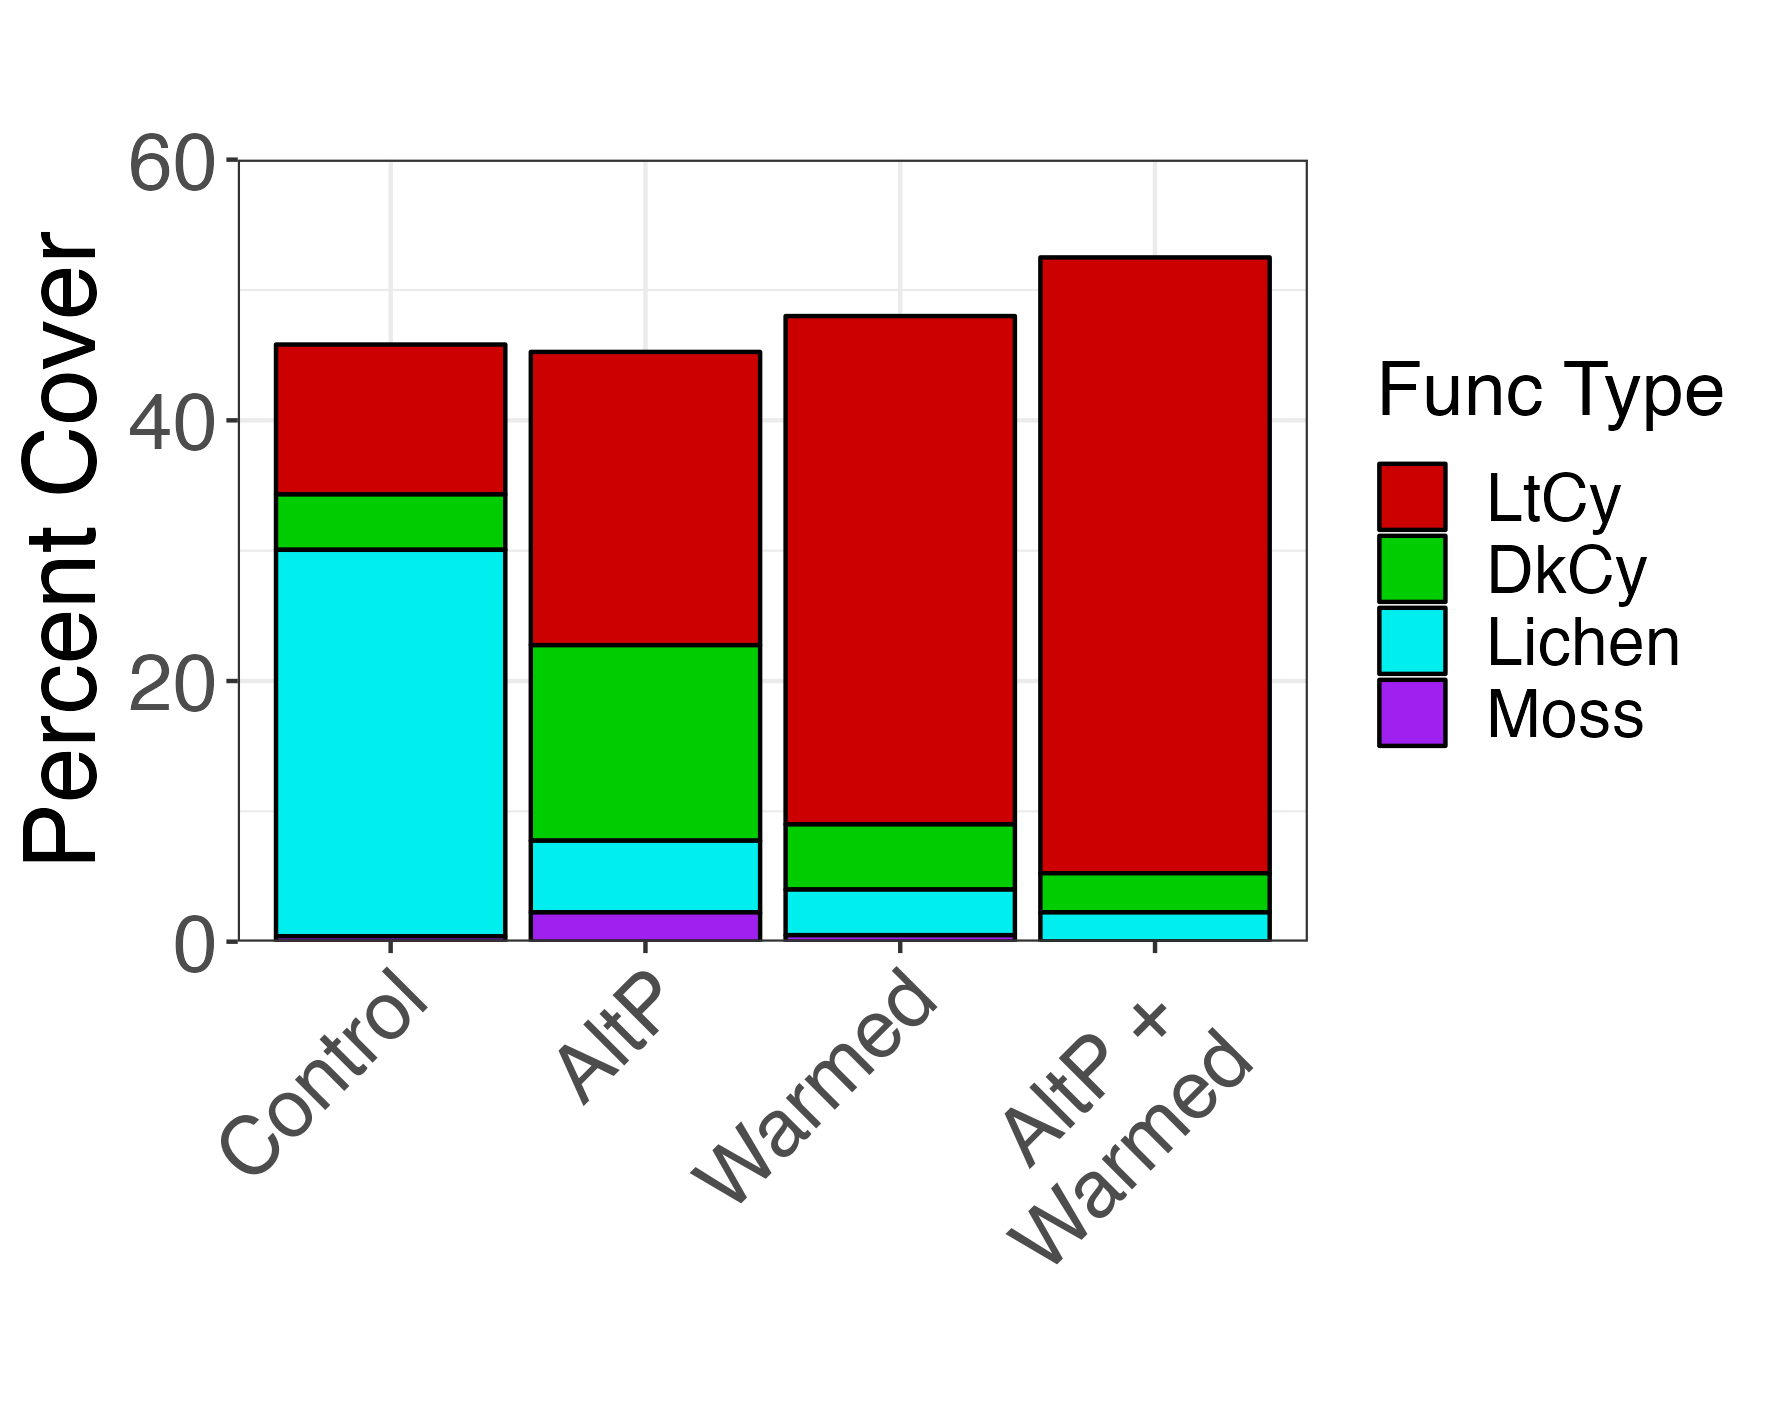
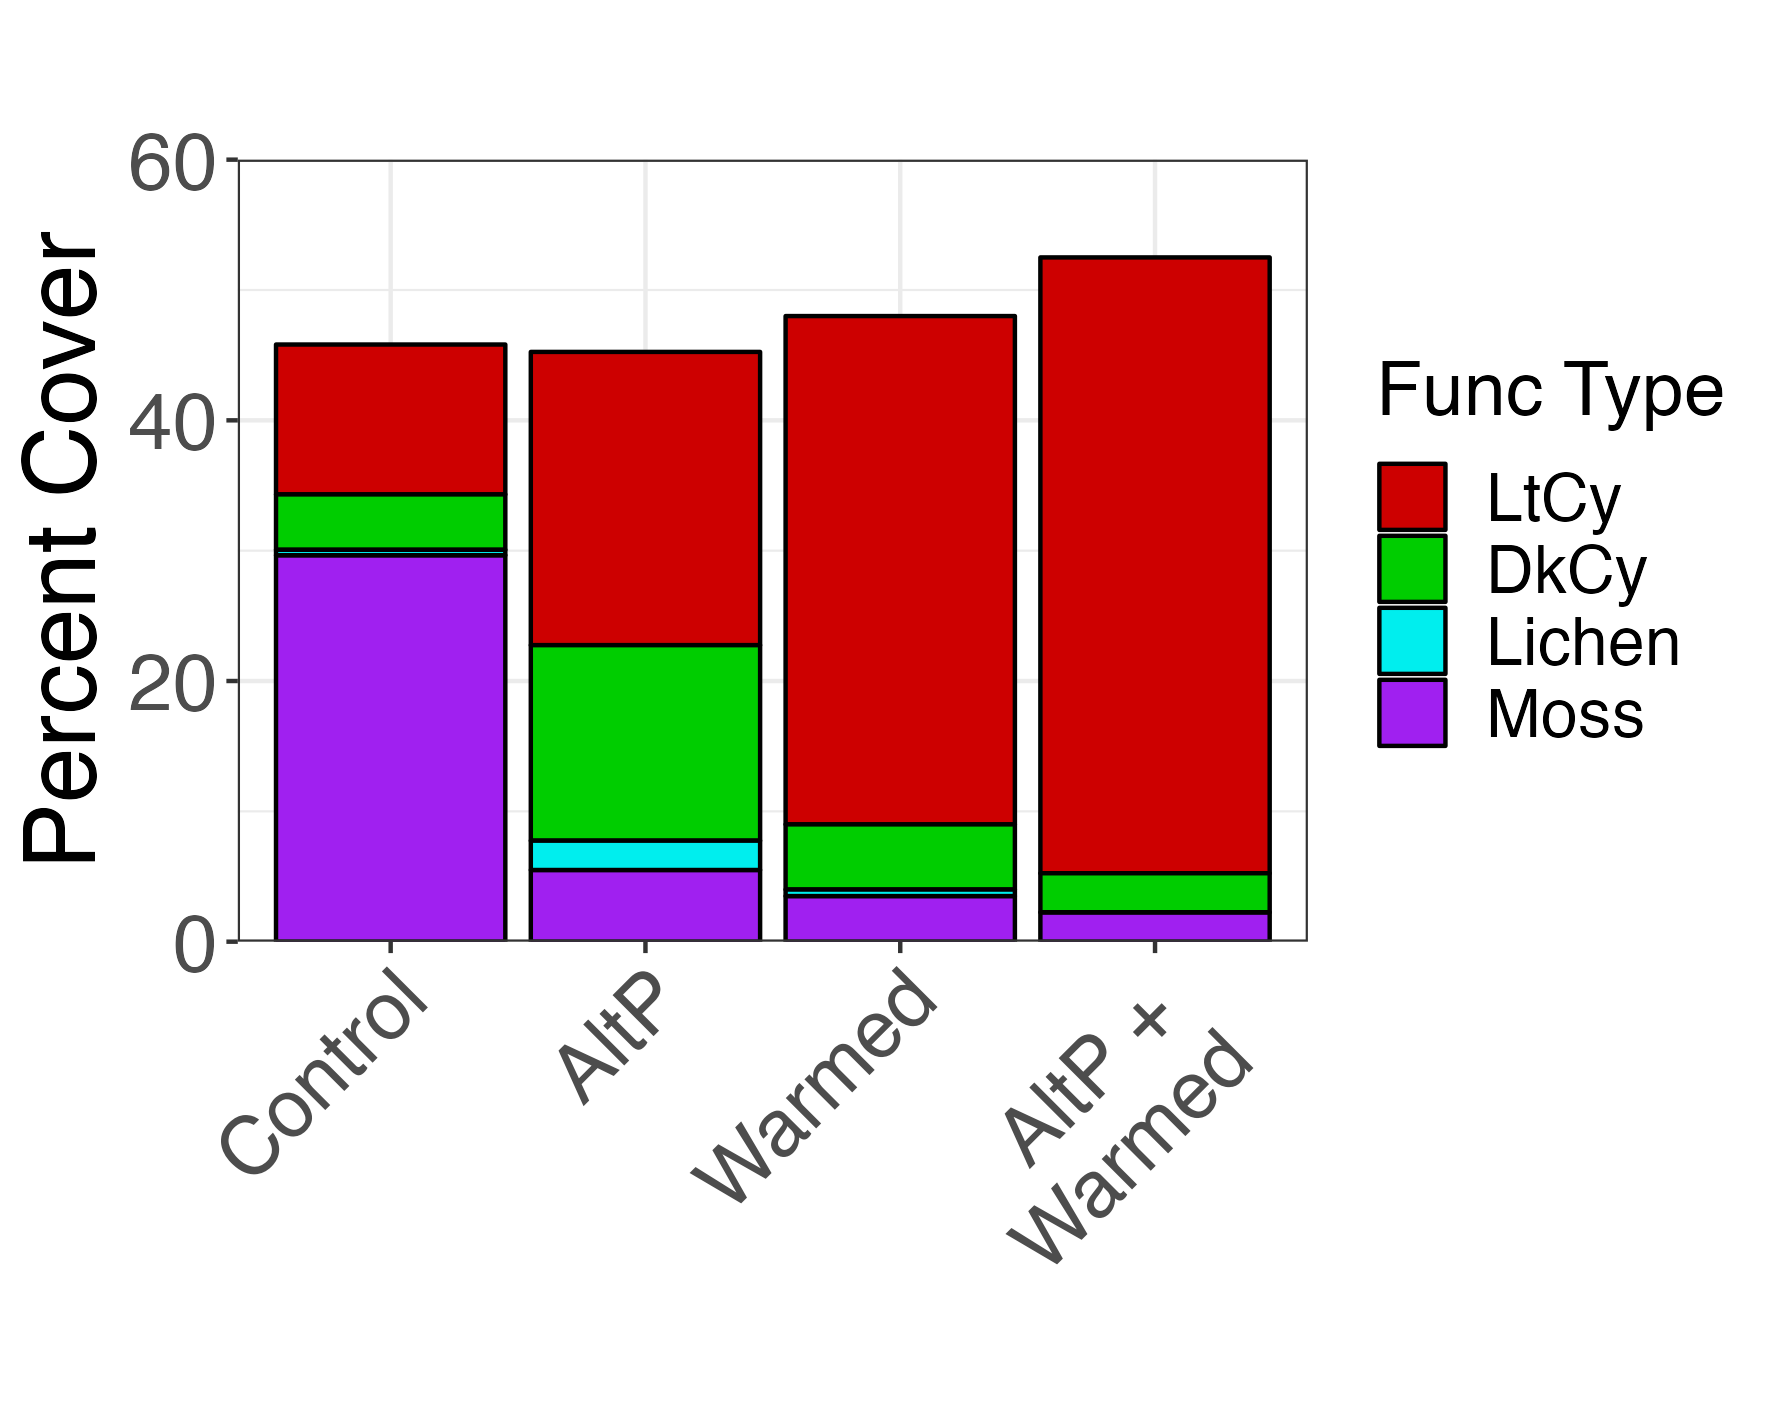
Added_Drone_Plots

Changed region(s): [[0.1553, 0.3726, 0.7143, 0.6831]]

diff --git a/scripts/Figure_Moab_Bplots_Maps.py b/scripts/Figure_Moab_Bplots_Maps.py
@@ -1,0 +1,210 @@
+'''
+Created on 03/12/2015
+
+@author: bill.smith
+'''
+
+#plot
+import gdal
+import numpy as np
+from matplotlib import rc
+from matplotlib.colors import rgb2hex
+from matplotlib import cm
+import matplotlib.pyplot as plt
+from matplotlib.colors import from_levels_and_colors
+import cartopy.crs as ccrs
+import cartopy.feature as cfeature
+from cartopy.io.shapereader import Reader
+import xarray as xr
+import rasterio
+
+#PROJECTION_GEO_WGS84 = 6341 #EPSG Code
+
+def figure_rgb(src,filename):
+    font = {'weight' : 'bold'}
+    rc('font', **font)
+    rc('ytick', labelsize=12)
+       
+    #Read data
+    rgb=src.read()
+    print(rgb.shape)
+    red_data=src.read(1)
+    grn_data=src.read(2)
+    blu_data=src.read(3)
+    red_data[np.logical_and(red_data==0,blu_data==0)]=255
+    grn_data[np.logical_and(grn_data==0,blu_data==0)]=255
+    blu_data[np.logical_and(red_data==255,blu_data==0)]=255
+    rgb = np.dstack((red_data,grn_data,blu_data))
+    print(rgb.shape)
+    
+    xmin = src.transform[0]
+    xmax = src.transform[0] + src.transform[1]*src.width
+    ymin = src.transform[3] + src.transform[5]*src.height
+    ymax = src.transform[3]
+    print([xmin, xmax, ymin, ymax])
+    
+    ###PLOT###
+    #Setup Basemap with projection
+    crs=ccrs.UTM('12N')
+    ax = plt.subplot(projection=crs)
+    
+    #Plot rgb
+    src.plot.imshow(ax=ax,rgb='band',transform=crs)
+    
+    ###EXTRA
+    d='/Users/wksmith/Data/USGS_Biocrust_S22/Boundaries/'
+    #Bplots
+    B1_Control=cfeature.ShapelyFeature(Reader(d+'B1_Control.shp').geometries(),ccrs.PlateCarree(),edgecolor='cyan',facecolor='none',linewidth=1)
+    B1_Control.plot(ax=ax)
+    B2_Control=cfeature.ShapelyFeature(Reader(d+'B2_Control.shp').geometries(),crs,edgecolor='cyan',facecolor='none',linewidth=1)
+    ax.add_feature(B2_Control)
+    B3_Control=cfeature.ShapelyFeature(Reader(d+'B3_Control.shp').geometries(),crs,edgecolor='cyan',facecolor='none',linewidth=1)
+    ax.add_feature(B3_Control)
+    B4_Control=cfeature.ShapelyFeature(Reader(d+'B4_Control.shp').geometries(),crs,edgecolor='cyan',facecolor='none',linewidth=1)
+    ax.add_feature(B4_Control)
+    B5_Control=cfeature.ShapelyFeature(Reader(d+'B5_Control.shp').geometries(),crs,edgecolor='cyan',facecolor='none',linewidth=1)
+    ax.add_feature(B5_Control)
+    
+    ###Save Image###
+    plt.savefig(filename,bbox_inches='tight',dpi=600)
+    plt.show()
+    plt.close()
+    
+    
+def figure_rgb_V2(src,filename):
+    font = {'weight' : 'bold'}
+    rc('font', **font)
+    rc('ytick', labelsize=12)
+       
+    #Read Data
+    red_data=src.read(1)
+    grn_data=src.read(2)
+    blu_data=src.read(3)
+    red_data[np.logical_and(red_data==0,blu_data==0)]=255
+    grn_data[np.logical_and(grn_data==0,blu_data==0)]=255
+    blu_data[np.logical_and(red_data==255,blu_data==0)]=255
+    rgb = np.dstack((red_data,grn_data,blu_data))
+    print(rgb.shape)
+    
+    #extent
+    xmin = src.transform[0]
+    xmax = src.transform[0] + src.transform[1]*src.width
+    ymin = src.transform[3] + src.transform[5]*src.height
+    ymax = src.transform[3]
+    print([xmin, xmax, ymin, ymax])
+    
+    #plot
+    crs=ccrs.UTM('12N')
+    ax = plt.axes(projection=crs)
+    ax.set_xmargin(0.05)
+    ax.set_ymargin(0.10)
+        
+    plt.imshow(rgb, transform=crs)
+    #plt.imshow(rgb, extent=[xmin, xmax, ymin, ymax], transform=crs)
+    plt.axis('off')
+    
+    ###EXTRAs
+    d='/Users/wksmith/Data/USGS_Biocrust_S22/Boundaries/'
+    print(d)
+    #Bplots
+    B1_Control=cfeature.ShapelyFeature(Reader(d+'BPlots_B1_Control.shp').geometries(),crs,edgecolor='cyan',facecolor='none',linewidth=1)
+    ax.add_feature(B1_Control)
+    B2_Control=cfeature.ShapelyFeature(Reader(d+'BPlots_B2_Control.shp').geometries(),crs,edgecolor='cyan',facecolor='none',linewidth=1)
+    ax.add_feature(B2_Control)
+    #B3_Control=cfeature.ShapelyFeature(Reader(d+'B3_Control.shp').geometries(),crs,edgecolor='cyan',facecolor='none',linewidth=1)
+    #ax.add_feature(B3_Control)
+    #B4_Control=cfeature.ShapelyFeature(Reader(d+'B4_Control.shp').geometries(),crs,edgecolor='cyan',facecolor='none',linewidth=1)
+    #ax.add_feature(B4_Control)
+    #B5_Control=cfeature.ShapelyFeature(Reader(d+'B5_Control.shp').geometries(),crs,edgecolor='cyan',facecolor='none',linewidth=1)
+    #ax.add_feature(B5_Control)
+    #Border
+    bplots=cfeature.ShapelyFeature(Reader(d+'BPlots_utm83.shp').geometries(),crs,edgecolor='cyan',facecolor='none',linewidth=1)
+    ax.add_feature(bplots)
+    
+    ###Save Image###
+    plt.savefig(filename,bbox_inches='tight',dpi=600)
+    plt.show()
+    plt.close()
+    
+def figure_mesh(fid,scale,clrs,levels,extnd,filename):
+    font = {'weight' : 'bold'}
+    rc('font', **font)
+    rc('ytick', labelsize=12)
+       
+    #Read Data
+    band=fid.GetRasterBand(1)
+    data=band.ReadAsArray()
+    geot=fid.GetGeoTransform()
+    data=np.ma.masked_where(data==0,data)
+    data=data*scale
+    
+    #Get lat,lon
+    rows=data.shape[0]
+    cols=data.shape[1]
+    minx = geot[0]
+    miny = geot[3] + cols*geot[4] + rows*geot[5] 
+    maxx = geot[0] + cols*geot[1] + rows*geot[2]
+    maxy = geot[3] 
+    lat=np.linspace(maxy, miny, rows)
+    lon=np.linspace(minx, maxx, cols)
+    #Get xGrid, yGrid
+    xGrid, yGrid = np.meshgrid(lon, lat)
+    
+    ###PLOT###
+    #Setup Basemap with projection
+    crs=ccrs.UTM('12N')
+    ax = plt.axes(projection=crs)
+    ax.set_extent([minx,maxx,miny,maxy],crs=crs)
+    ax.axis('off') #turn off border
+    #Set colormap
+    cmap, norm = from_levels_and_colors(levels, clrs, extend=extnd)
+    #Plot colormesh
+    plt.pcolormesh(xGrid,yGrid,data,transform=crs,cmap=cmap,norm=norm)
+    
+   
+    
+    ###EXTRAs
+    d='/Users/wksmith/Data/USGS_Biocrust_S22/Boundaries/'
+    print(d)
+    #Bplots
+    B1_Control=cfeature.ShapelyFeature(Reader(d+'BPlots_B1_Control.shp').geometries(),crs,edgecolor='cyan',facecolor='none',linewidth=1)
+    ax.add_feature(B1_Control)
+    B2_Control=cfeature.ShapelyFeature(Reader(d+'BPlots_B2_Control.shp').geometries(),crs,edgecolor='cyan',facecolor='none',linewidth=1)
+    ax.add_feature(B2_Control)
+    #B3_Control=cfeature.ShapelyFeature(Reader(d+'B3_Control.shp').geometries(),crs,edgecolor='cyan',facecolor='none',linewidth=1)
+    #ax.add_feature(B3_Control)
+    #B4_Control=cfeature.ShapelyFeature(Reader(d+'B4_Control.shp').geometries(),crs,edgecolor='cyan',facecolor='none',linewidth=1)
+    #ax.add_feature(B4_Control)
+    #B5_Control=cfeature.ShapelyFeature(Reader(d+'B5_Control.shp').geometries(),crs,edgecolor='cyan',facecolor='none',linewidth=1)
+    #ax.add_feature(B5_Control)
+    #Border
+    bplots=cfeature.ShapelyFeature(Reader(d+'BPlots_utm83.shp').geometries(),crs,edgecolor='black',facecolor='none',linewidth=1)
+    ax.add_feature(bplots)
+    
+    ###Save Image###
+    #plt.show()
+    plt.savefig(filename,bbox_inches='tight',dpi=600)
+    plt.show()
+    plt.close()
+    
+#########################################################################################################
+
+if __name__ == '__main__':
+    data_dir='/Users/wksmith/Data/USGS_Biocrust_S22/'
+    out_dir='/Users/wksmith/Documents/GitHub/Biocrust-USGS/figures/'
+    
+    ###Plot Thermal
+    scale=1
+    extnd='both'
+    levels = np.linspace(650,850,num=50)
+    cmap=cm.get_cmap('plasma',51)
+    color_list = [rgb2hex(cmap(i)[:3]) for i in range(cmap.N)]
+    fid=gdal.Open(data_dir+'thermal/20220214_Flight2_XT2_IR/Biocrust_Flight2_XT2_IR_Ortho_Metashape_utm83_clipped.tif')
+    figure_mesh(fid,scale,color_list,levels,extnd,out_dir+'test_thermal.png')
+    
+    
+    ###Plot RGB
+    rgb_path=data_dir+'rgb/Biocrust_Flight2_021222_RGB_Ortho_Metashape_utm83_clipped.tif'
+    src = rasterio.open(rgb_path)
+    figure_rgb_V2(src,out_dir+'test_rgb.png')
+    
